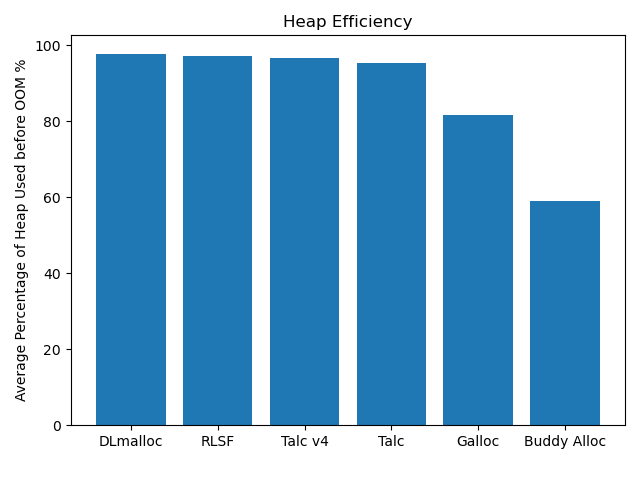
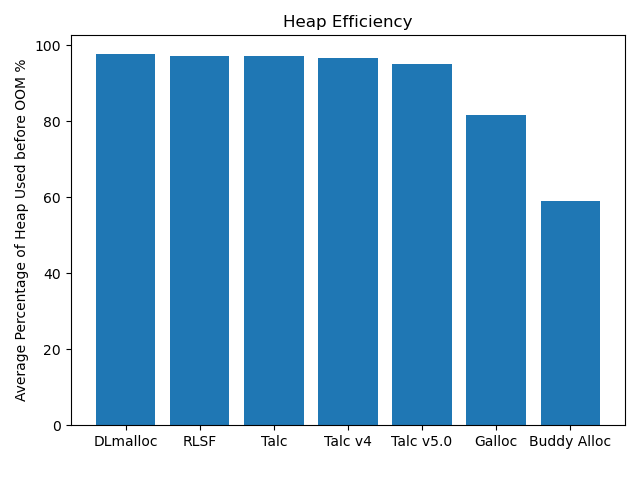
removed bigger-chunk-grab shortcut to evaluate efficiency-performance tradeoff

Changed region(s): [[0.2812, 0.0938, 0.9688, 0.9375], [0.2188, 0.0938, 0.3125, 0.9062], [0.1562, 0.9062, 0.25, 0.9375]]

diff --git a/talc/src/base/mod.rs b/talc/src/base/mod.rs
@@ -123,7 +123,7 @@ impl<S: Source, B: Binning> Talc<S, B> {
             // This is allowed to return values >= B::BIN_COUNT.
             // This indicates that the last bucket is our only bet,
             // and the allocations therein are not necessarily big enough.
-            let bin = B::size_to_bin_ceil(required_chunk_size.max(layout.align()));
+            let bin = B::size_to_bin(required_chunk_size.max(layout.align()));
 
             // special case, this is a large allocation, dig around the last bin
             if bin >= (B::BIN_COUNT - 1) {
@@ -155,49 +155,47 @@ impl<S: Source, B: Binning> Talc<S, B> {
                 return None;
             }
 
-            if layout.align() <= CHUNK_UNIT {
-                let node_ptr = self.gap_list_ptr(b).read().unwrap_unchecked();
-                let mut size = gap_node_to_size(node_ptr).read();
+            // if layout.align() <= CHUNK_UNIT {
+            //     let node_ptr = self.gap_list_ptr(b).read().unwrap_unchecked();
+            //     let mut size = gap_node_to_size(node_ptr).read();
 
-                if S::TRACK_HEAP_END {
-                    size &= !END_FLAG;
+            //     if S::TRACK_HEAP_END {
+            //         size &= !END_FLAG;
+            //     }
+
+            //     debug_assert!(size >= required_chunk_size);
+
+            //     let base = gap_node_to_base(node_ptr);
+            //     self.deregister_gap(base, size);
+
+            //     Tag::clear_above_free(end_to_tag(base));
+
+            //     break 'search (base, base.add(size));
+            // } else {
+            // a larger than CHUNK_UNIT alignment is demanded
+            // therefore each chunk is manually checked to be sufficient accordingly
+            let align_mask = layout.align() - 1;
+
+            loop {
+                if let Some(res) = self.full_search_bin(b, required_chunk_size, align_mask) {
+                    break 'search res;
                 }
 
-                debug_assert!(size >= required_chunk_size);
+                if b + 1 < B::BIN_COUNT || B::AvailabilityBitField::BITS > B::BIN_COUNT {
+                    b = self.avails.bit_scan_after(b + 1);
 
-                let base = gap_node_to_base(node_ptr);
-                self.deregister_gap(base, size);
-
-                Tag::clear_above_free(end_to_tag(base));
-
-                break 'search (base, base.add(size));
-            } else {
-                // a larger than CHUNK_UNIT alignment is demanded
-                // therefore each chunk is manually checked to be sufficient accordingly
-                let align_mask = layout.align() - 1;
-
-                loop {
-                    if let Some(res) = self.full_search_bin(b, required_chunk_size, align_mask) {
-                        break 'search res;
+                    if b < B::BIN_COUNT {
+                        continue;
                     }
-
-                    if b + 1 < B::BIN_COUNT || B::AvailabilityBitField::BITS > B::BIN_COUNT {
-                        b = self.avails.bit_scan_after(b + 1);
-
-                        if b < B::BIN_COUNT {
-                            continue;
-                        }
-                    }
-
-                    if let Some(res) =
-                        self.full_search_bin(bin - 1, required_chunk_size, align_mask)
-                    {
-                        break 'search res;
-                    }
-
-                    return None;
                 }
+
+                // if let Some(res) = self.full_search_bin(bin - 1, required_chunk_size, align_mask) {
+                //     break 'search res;
+                // }
+
+                return None;
             }
+            // }
         };
 
         debug_assert_eq!(align_down(base), base);

diff --git a/benches/src/lib.rs b/benches/src/lib.rs
@@ -28,7 +28,8 @@ pub struct NamedAllocator {
 pub const ARENA_ALLOCATORS: &[NamedAllocator] = &[
     NamedAllocator { name: "DLmalloc", init_fn: init_dlmalloc },
     NamedAllocator { name: "Talc", init_fn: init_talc },
-    NamedAllocator { name: "Talc v4", init_fn: init_talc_old },
+    NamedAllocator { name: "Talc v4", init_fn: init_talc_v4 },
+    NamedAllocator { name: "Talc v5.0", init_fn: init_talc_v5_0 },
     NamedAllocator { name: "RLSF", init_fn: init_rlsf },
     NamedAllocator { name: "Galloc", init_fn: init_galloc },
     NamedAllocator { name: "Buddy Alloc", init_fn: init_buddy_alloc },
@@ -60,7 +61,7 @@ pub const SYSTEM_ALLOCATORS: &[NamedAllocator] = &[
 ///
 /// This could probably be improved by sampling empirical allocation data or something.
 pub fn generate_size(max: usize) -> usize {
-    let cap = fastrand::usize(16..max);
+    let cap = fastrand::usize(8..max);
     fastrand::usize(4..cap)
 }
 
@@ -118,9 +119,14 @@ unsafe fn init_talc() -> Box<dyn GlobalAlloc + Sync> {
     talc.lock().claim((&raw mut HEAP.0).cast(), HEAP_SIZE).unwrap();
     Box::new(talc)
 }
-
-unsafe fn init_talc_old() -> Box<dyn GlobalAlloc + Sync> {
-    use prev_talc::{ErrOnOom, Talc};
+unsafe fn init_talc_v5_0() -> Box<dyn GlobalAlloc + Sync> {
+    use talc_v5_0::{TalcLock, source::Manual};
+    let talc: TalcLock<RawSpinlock, _> = TalcLock::new(Manual);
+    talc.lock().claim((&raw mut HEAP.0).cast(), HEAP_SIZE).unwrap();
+    Box::new(talc)
+}
+unsafe fn init_talc_v4() -> Box<dyn GlobalAlloc + Sync> {
+    use talc_v4::{ErrOnOom, Talc};
 
     unsafe {
         let talc = Talc::new(ErrOnOom).lock::<RawSpinlock>();

diff --git a/benches/src/bin/random_actions.rs b/benches/src/bin/random_actions.rs
@@ -13,7 +13,7 @@ use benches::{
     generate_size, touch_the_whole_heap,
 };
 
-const TRIALS_AMOUNT: usize = 7;
+const TRIALS_AMOUNT: usize = 14;
 const WARMUP: Duration = Duration::from_millis(2);
 const DURATION: Duration = Duration::from_millis(200);
 const RA_MAX_REALLOC_SIZE_MULTI: usize = 3;
